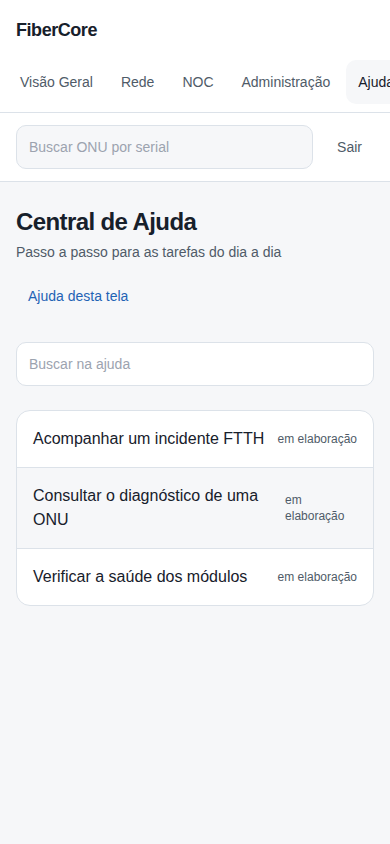
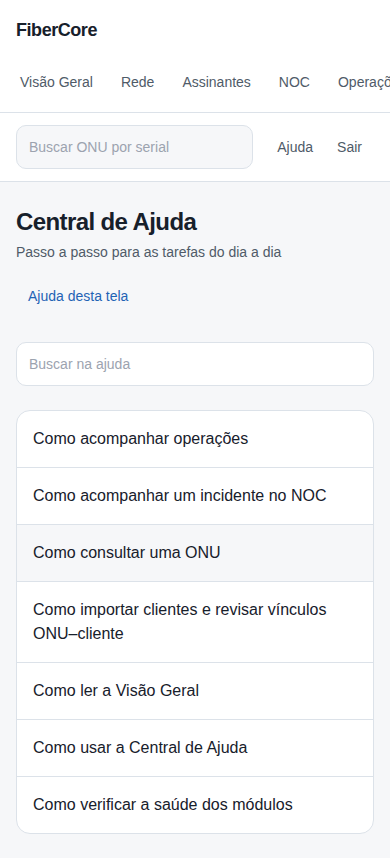
feat(web): telas Assinantes e Operações (W8) com E2E, capturas reais e How-to; menu com 6 áreas
Claude-Session: https://claude.ai/code/session_01G65B8a86N96ZoCrjd2Ad9b

diff --git a/apps/web/src/app/assinantes/page.tsx b/apps/web/src/app/assinantes/page.tsx
@@ -1,0 +1,69 @@
+import { AppShell } from "@/components/AppShell";
+import { EmptyState, ErrorState, PageHeader } from "@/components/ui";
+import { apiSafe } from "@/lib/api";
+import type { Association } from "@/lib/types";
+
+const n = (v: string | undefined) => (v && /^\d{1,5}$/.test(v) ? v : "0");
+
+export default async function Assinantes({ searchParams }: { searchParams: Promise<Record<string, string | undefined>> }) {
+  const q = await searchParams;
+  const r = await apiSafe<Association[]>("/v1/associations?status=suggested&limit=200");
+  if (r.status === 403) return <AppShell active="/assinantes" user="1"><ErrorState title="Sem permissão" hint="Seu papel não permite ver assinantes." /></AppShell>;
+  const list = r.data ?? [];
+  return (
+    <AppShell active="/assinantes" user="1">
+      <PageHeader title="Assinantes" subtitle="Importe clientes e revise os vínculos sugeridos entre ONU e cliente" helpSlug="assinantes/importar-e-revisar-vinculos" />
+      {q.ok === "import" && <p role="status" data-testid="import-report" className="panel mb-4 p-4 text-sm">Importação concluída: {n(q.a)} aceitas, {n(q.r)} rejeitadas, {n(q.s)} sugestões ({n(q.c)} com conflito). Os valores das linhas rejeitadas não são exibidos.</p>}
+      {(q.ok === "approve" || q.ok === "reject") && <p role="status" className="panel mb-4 p-4 text-sm">Vínculo {q.ok === "approve" ? "aprovado" : "rejeitado"}.</p>}
+      {q.erro && <p role="alert" className="panel mb-4 border-danger p-4 text-sm text-danger">Não foi possível concluir a operação ({q.erro === "409" ? "o vínculo já foi revisado, é ambíguo ou a ONU já tem vínculo aprovado" : q.erro === "403" ? "sem permissão" : "erro " + q.erro.slice(0, 8)}).</p>}
+      <div className="grid gap-6 lg:grid-cols-[320px_1fr]">
+        <section aria-label="Importar CSV">
+          <h2 className="mb-2 text-sm font-semibold uppercase tracking-wide text-muted">Importar CSV</h2>
+          <form action="/bff/erp/import" method="post" encType="multipart/form-data" className="panel grid gap-3 p-4" data-testid="import-form">
+            <label className="grid gap-1 text-sm">Origem
+              <input name="source" defaultValue="csv-manual" pattern="[a-z0-9][a-z0-9_.-]{1,39}" required className="min-h-touch rounded-btn border border-line bg-bg px-3" />
+            </label>
+            <label className="grid gap-1 text-sm">Arquivo (UTF-8, até 2 MiB)
+              <input name="file" type="file" accept=".csv,text/csv" required className="min-h-touch rounded-btn border border-line bg-bg p-2 text-sm" />
+            </label>
+            <p className="text-xs text-muted">Colunas: erp_customer_id, display_name; opcionais: document, contract_status, onu_serial.</p>
+            <button type="submit" className="min-h-touch rounded-btn bg-accent px-4 font-medium text-[color:var(--on-accent)]">Importar</button>
+          </form>
+        </section>
+        <section aria-label="Vínculos sugeridos" className="min-w-0">
+          <h2 className="mb-2 text-sm font-semibold uppercase tracking-wide text-muted">Vínculos sugeridos</h2>
+          {r.data === null ? <ErrorState title="Falha ao carregar vínculos" /> : list.length === 0 ? <EmptyState title="Nenhum vínculo para revisar" hint="Importe um CSV com a coluna onu_serial." /> : (
+            <ul className="panel divide-y divide-line" data-testid="association-list">
+              {list.map((a) => {
+                const blocked = a.evidence.ambiguous_serial === true;
+                return (
+                  <li key={a.id} className="grid gap-2 p-4">
+                    <div className="flex flex-wrap items-baseline justify-between gap-2">
+                      <span><span className="font-mono">{a.onu_serial}</span> → <strong>{a.customer_name}</strong></span>
+                      <span className="text-sm text-muted">Pontuação {a.score}/100</span>
+                    </div>
+                    <p className="text-sm text-muted">Evidência: serial idêntico{blocked ? " · serial presente em mais de uma OLT (ambíguo: resolva o inventário antes de aprovar)" : ""}{a.evidence.conflicts_with_approved ? " · conflita com um vínculo já aprovado" : ""}.</p>
+                    <div className="flex flex-wrap gap-2">
+                      <details>
+                        <summary className={`inline-flex min-h-touch cursor-pointer items-center rounded-btn border border-line px-3 text-sm ${blocked ? "pointer-events-none opacity-50" : ""}`} aria-disabled={blocked}>Aprovar</summary>
+                        <form action={`/bff/associations/${a.id}/approve`} method="post" className="mt-2 flex items-center gap-2 text-sm">
+                          <span>Confirmar vínculo?</span><button className="min-h-touch rounded-btn bg-accent px-3 text-[color:var(--on-accent)]">Confirmar aprovação</button>
+                        </form>
+                      </details>
+                      <details>
+                        <summary className="inline-flex min-h-touch cursor-pointer items-center rounded-btn border border-line px-3 text-sm">Rejeitar</summary>
+                        <form action={`/bff/associations/${a.id}/reject`} method="post" className="mt-2 flex items-center gap-2 text-sm">
+                          <span>Rejeitar sugestão?</span><button className="min-h-touch rounded-btn border border-line px-3">Confirmar rejeição</button>
+                        </form>
+                      </details>
+                    </div>
+                  </li>
+                );
+              })}
+            </ul>
+          )}
+        </section>
+      </div>
+    </AppShell>
+  );
+}

diff --git a/apps/web/e2e/app.spec.ts b/apps/web/e2e/app.spec.ts
@@ -2,7 +2,7 @@ import AxeBuilder from "@axe-core/playwright";
 import { expect, test } from "@playwright/test";
 import { login } from "./helpers";
 
-const routes = ["/", "/rede", "/noc", "/administracao/modulos", "/ajuda", "/ajuda/rede/consultar-onu"];
+const routes = ["/", "/rede", "/assinantes", "/noc", "/operacoes", "/administracao/modulos", "/ajuda", "/ajuda/rede/consultar-onu"];
 
 test("login inválido mostra erro e não cria sessão", async ({ page, context }) => {
   await page.goto("/login");
@@ -14,7 +14,7 @@ test("login inválido mostra erro e não cria sessão", async ({ page, context }
 });
 
 test("telas protegidas redirecionam para login sem sessão", async ({ page }) => {
-  for (const r of ["/", "/rede", "/noc", "/administracao/modulos", "/ajuda"]) {
+  for (const r of ["/", "/rede", "/assinantes", "/noc", "/operacoes", "/administracao/modulos", "/ajuda"]) {
     await page.goto(r);
     await expect(page).toHaveURL(/\/login/);
   }
@@ -77,4 +77,44 @@ test("navegação por teclado alcança o conteúdo e a busca", async ({ page }) 
   await login(page);
   await page.keyboard.press("Tab");
   await expect(page.getByRole("link", { name: "Ir para o conteúdo" })).toBeFocused();
+});
+
+test("assinantes: serial ambíguo não pode ser aprovado; aprovação exige confirmação e é refletida", async ({ page }) => {
+  await login(page);
+  await page.goto("/assinantes");
+  const items = page.getByTestId("association-list").locator("li");
+  const ambiguous = items.filter({ hasText: "DEMODUP001" }).first();
+  await expect(ambiguous).toContainText("ambíguo");
+  await expect(ambiguous.locator("summary", { hasText: "Aprovar" })).toHaveAttribute("aria-disabled", "true");
+  // aprovar um vínculo normal: abre a confirmação e só então efetiva
+  const before = await items.count();
+  const normal = items.filter({ hasText: "Cliente Demo Um" });
+  await expect(normal).toHaveCount(1);
+  await normal.locator("summary", { hasText: "Aprovar" }).click();
+  await normal.getByRole("button", { name: "Confirmar aprovação" }).click();
+  await expect(page.getByText("Vínculo aprovado.")).toBeVisible();
+  await expect(items.filter({ hasText: "Cliente Demo Um" })).toHaveCount(0);
+  await expect(items).toHaveCount(before - 1);
+});
+
+test("assinantes: importação mostra só contagens, nunca valores do CSV", async ({ page }) => {
+  await login(page);
+  await page.goto("/assinantes");
+  const csv = "erp_customer_id,display_name,document,contract_status,onu_serial\nE2E1,Pessoa Secreta,123,active,\nE2E2,Outra Pessoa,,active,\n";
+  await page.setInputFiles('input[name="file"]', { name: "clientes.csv", mimeType: "text/csv", buffer: Buffer.from(csv) });
+  await page.getByRole("button", { name: "Importar" }).click();
+  const report = page.getByTestId("import-report");
+  await expect(report).toContainText("1 aceitas, 1 rejeitadas");
+  expect(page.url()).not.toContain("Secreta");
+  await expect(page.locator("body")).not.toContainText("Pessoa Secreta");
+});
+
+test("operações: escrita aparece bloqueada com o motivo e nenhum botão de escrita habilitado", async ({ page }) => {
+  await login(page);
+  await page.goto("/operacoes");
+  await expect(page.getByTestId("write-blocked")).toContainText("Operação não homologada");
+  const blocked = page.getByRole("button", { name: /Bloqueada: operação não homologada/ });
+  await expect(blocked).toHaveCount(2);
+  for (const b of await blocked.all()) await expect(b).toBeDisabled();
+  await expect(page.getByTestId("jobs-table")).toContainText("Reiniciar CPE");
 });

diff --git a/apps/web/src/app/operacoes/page.tsx b/apps/web/src/app/operacoes/page.tsx
@@ -1,0 +1,45 @@
+import { AppShell } from "@/components/AppShell";
+import { EmptyState, ErrorState, PageHeader } from "@/components/ui";
+import { apiSafe } from "@/lib/api";
+import type { Job } from "@/lib/types";
+
+const STATES = ["PREVIEWED", "PENDING_APPROVAL", "APPROVED", "DISPATCHED", "ACCEPTED", "VERIFYING", "SUCCEEDED"];
+const label: Record<string, string> = {
+  PREVIEWED: "Pré-visualizado", PENDING_APPROVAL: "Aguardando aprovação", APPROVED: "Aprovado", DISPATCHED: "Despachado (não é sucesso)",
+  ACCEPTED: "Aceito (não é sucesso)", DEVICE_PENDING: "Pendente no equipamento", VERIFYING: "Verificando", SUCCEEDED: "Sucesso verificado",
+  FAILED: "Falhou", EXPIRED: "Expirado", UNKNOWN: "Resultado desconhecido", CANCELLED: "Cancelado",
+};
+const opName: Record<string, string> = { collect: "Coletar OLT", refresh: "Atualizar CPE", reboot_cpe: "Reiniciar CPE", set_wifi_ssid: "Alterar Wi-Fi", provision_onu: "Provisionar ONU" };
+
+export default async function Operacoes() {
+  const r = await apiSafe<Job[]>("/v1/jobs?limit=50");
+  if (r.status === 403) return <AppShell active="/operacoes" user="1"><ErrorState title="Sem permissão" hint="Seu papel não permite ver operações." /></AppShell>;
+  const list = r.data ?? [];
+  return (
+    <AppShell active="/operacoes" user="1">
+      <PageHeader title="Operações" subtitle="Solicitações e aprovações; escrita em rede está bloqueada nesta fase" helpSlug="operacoes/acompanhar-operacoes" />
+      <p className="panel mb-4 p-4 text-sm" data-testid="write-blocked">Operações que alteram equipamentos (reiniciar, Wi-Fi, provisionar) ficam <strong>bloqueadas</strong>: “Operação não homologada”. Apenas leituras (coletar/atualizar) são executadas.</p>
+      {r.data === null ? <ErrorState title="Falha ao carregar operações" /> : list.length === 0 ? <EmptyState title="Nenhuma operação" /> : (
+        <div className="panel overflow-x-auto" data-testid="jobs-table">
+          <table className="w-full min-w-[640px] text-sm">
+            <thead className="text-left text-muted"><tr><th className="p-3 font-medium">Operação</th><th className="p-3 font-medium">Risco</th><th className="p-3 font-medium">Estado</th><th className="p-3 font-medium">Aprovações</th><th className="p-3 font-medium">Ação</th></tr></thead>
+            <tbody className="divide-y divide-line">
+              {list.map((j) => (
+                <tr key={j.id}>
+                  <td className="p-3 font-medium">{opName[j.operation] ?? j.operation}</td>
+                  <td className="p-3">{j.risk}</td>
+                  <td className="p-3">
+                    {label[j.status] ?? j.status}
+                    {STATES.includes(j.status) && <div className="text-xs text-muted" aria-label="Linha do tempo">{STATES.map((s) => (s === j.status ? `[${label[s]?.split(" (")[0]}]` : "·")).join(" ")}</div>}
+                  </td>
+                  <td className="p-3">{j.required_approvals === 0 ? "não exige" : `${j.required_approvals} distinta(s)`}</td>
+                  <td className="p-3">{j.blocked_reason ? <button disabled aria-disabled className="min-h-touch rounded-btn border border-line px-3 text-muted" title="Operação não homologada">Bloqueada: operação não homologada</button> : <span className="text-muted">—</span>}</td>
+                </tr>
+              ))}
+            </tbody>
+          </table>
+        </div>
+      )}
+    </AppShell>
+  );
+}

diff --git a/apps/web/src/components/AppShell.tsx b/apps/web/src/components/AppShell.tsx
@@ -5,10 +5,11 @@ import type { ReactNode } from "react";
 export const NAV = [
   { href: "/", label: "Visão Geral" },
   { href: "/rede", label: "Rede" },
+  { href: "/assinantes", label: "Assinantes" },
   { href: "/noc", label: "NOC" },
+  { href: "/operacoes", label: "Operações" },
   { href: "/administracao/modulos", label: "Administração" },
-  { href: "/ajuda", label: "Ajuda" },
-] as const;
+] as const; // 6 áreas (limite do design system); a Ajuda fica na barra superior
 
 export function AppShell({ active, children, user }: { active: string; children: ReactNode; user?: string }) {
   return (
@@ -34,11 +35,14 @@ export function AppShell({ active, children, user }: { active: string; children:
             <input id="q" name="serial" placeholder="Buscar ONU por serial" autoComplete="off"
               className="min-h-touch w-full rounded-btn border border-line bg-bg px-3 text-sm" />
           </form>
-          {user && (
-            <form action="/bff/logout" method="post">
-              <button className="min-h-touch rounded-btn px-3 text-sm text-muted hover:bg-bg" type="submit">Sair</button>
-            </form>
-          )}
+          <div className="flex items-center">
+            <Link href="/ajuda" aria-current={active === "/ajuda" ? "page" : undefined} className="flex min-h-touch items-center rounded-btn px-3 text-sm text-muted hover:bg-bg">Ajuda</Link>
+            {user && (
+              <form action="/bff/logout" method="post">
+                <button className="min-h-touch rounded-btn px-3 text-sm text-muted hover:bg-bg" type="submit">Sair</button>
+              </form>
+            )}
+          </div>
         </header>
         <main id="main" className="mx-auto max-w-page px-4 py-6 md:px-8">{children}</main>
       </div>

diff --git a/apps/web/src/app/bff/erp/import/route.ts b/apps/web/src/app/bff/erp/import/route.ts
@@ -1,0 +1,20 @@
+import { NextResponse } from "next/server";
+import { apiPost } from "@/lib/api";
+import { back } from "@/lib/bff";
+import { sameOrigin } from "@/lib/csrf";
+
+const MAX = 2 * 1024 * 1024;
+
+export async function POST(req: Request) {
+  if (!sameOrigin(req)) return NextResponse.json({ detail: "forbidden" }, { status: 403 });
+  const form = await req.formData();
+  const file = form.get("file");
+  const source = String(form.get("source") ?? "csv-manual");
+  if (!(file instanceof File) || file.size === 0 || file.size > MAX) return back(req, "/assinantes?erro=arquivo");
+  const buf = await file.arrayBuffer();
+  const r = await apiPost(`/v1/erp/import-csv?source=${encodeURIComponent(source)}`, buf, { "content-type": "text/csv", "content-length": String(buf.byteLength) });
+  if (r.status !== 200) return back(req, `/assinantes?erro=${r.status}`);
+  const j = r.json as { accepted: number; rejected_count: number; suggestions: number; conflicts: number };
+  // Só contagens trafegam na URL: nunca valores do CSV (podem ser dados pessoais).
+  return back(req, `/assinantes?ok=import&a=${j.accepted}&r=${j.rejected_count}&s=${j.suggestions}&c=${j.conflicts}`);
+}

diff --git a/apps/web/src/lib/api.ts b/apps/web/src/lib/api.ts
@@ -35,3 +35,16 @@ export async function apiLogin(email: string, password: string, clientIp?: strin
   if (!res.ok) return { token: null, status: res.status };
   return { token: ((await res.json()) as { access_token: string }).access_token, status: 200 };
 }
+
+/** POST server-side com o token da sessão. Devolve status e corpo JSON (se houver). */
+export async function apiPost(path: string, body?: BodyInit, headers: Record<string, string> = {}): Promise<{ status: number; json: unknown }> {
+  const { token, workspace } = await getSession();
+  if (!token) return { status: 401, json: null };
+  const res = await fetch(`${API}${path}`, {
+    method: "POST", body, cache: "no-store",
+    headers: { ...headers, Authorization: `Bearer ${token}`, ...(workspace ? { "X-Workspace-ID": workspace } : {}) },
+  });
+  let json: unknown = null;
+  try { json = await res.json(); } catch { /* sem corpo */ }
+  return { status: res.status, json };
+}

diff --git a/apps/web/src/lib/types.ts b/apps/web/src/lib/types.ts
@@ -5,3 +5,5 @@ export type IncidentList = { incidents: Incident[]; alerts: { kind: string; edge
 export type Edge = { id: string; name: string; status: string; last_heartbeat_at: string | null; version: string | null };
 export type Mod = { id: string; version: string; status: string; reason: string | null; capabilities: string[]; checked_at: string };
 export type Workspace = { tenant_id: string; name: string; role: string };
+export type Association = { id: string; status: string; score: number; evidence: { ambiguous_serial?: boolean; conflicts_with_approved?: string | null; match?: string }; onu_serial: string; customer_name: string };
+export type Job = { id: string; operation: string; target_type: string; risk: string; status: string; required_approvals: number; blocked_reason: string | null; expires_at: string | null; created_at: string };

diff --git a/apps/web/src/app/bff/associations/[id]/[action]/route.ts b/apps/web/src/app/bff/associations/[id]/[action]/route.ts
@@ -1,0 +1,14 @@
+import { NextResponse } from "next/server";
+import { apiPost } from "@/lib/api";
+import { back } from "@/lib/bff";
+import { sameOrigin } from "@/lib/csrf";
+
+const UUID = /^[0-9a-f]{8}-[0-9a-f]{4}-[0-9a-f]{4}-[0-9a-f]{4}-[0-9a-f]{12}$/i;
+
+export async function POST(req: Request, { params }: { params: Promise<{ id: string; action: string }> }) {
+  if (!sameOrigin(req)) return NextResponse.json({ detail: "forbidden" }, { status: 403 });
+  const { id, action } = await params;
+  if (!UUID.test(id) || !["approve", "reject"].includes(action)) return NextResponse.json({ detail: "not found" }, { status: 404 });
+  const r = await apiPost(`/v1/associations/${id}/${action}`);
+  return back(req, `/assinantes?${r.status === 200 ? `ok=${action}` : `erro=${r.status}`}`);
+}

diff --git a/apps/web/e2e/help-screenshots.spec.ts b/apps/web/e2e/help-screenshots.spec.ts
@@ -11,6 +11,8 @@ const screens = [
   { slug: "visao-geral/visao-geral", route: "/", ready: "kpis" },
   { slug: "rede/consultar-onu", route: "/rede", ready: "onu-inventory-ready" },
   { slug: "noc/acompanhar-incidente", route: "/noc", ready: "incident-queue" },
+  { slug: "assinantes/importar-e-revisar-vinculos", route: "/assinantes", ready: "association-list" },
+  { slug: "operacoes/acompanhar-operacoes", route: "/operacoes", ready: "jobs-table" },
   { slug: "administracao/saude-modulos", route: "/administracao/modulos", ready: "modules-table" },
   { slug: "ajuda/central-de-ajuda", route: "/ajuda", ready: "help-list" },
 ];

diff --git a/apps/web/playwright.config.ts b/apps/web/playwright.config.ts
@@ -13,5 +13,9 @@ export default defineConfig({
     colorScheme: "light",
     trace: "retain-on-failure",
   },
-  projects: [{ name: "chromium", use: { browserName: "chromium" } }],
+  // Capturas primeiro (estado do seed intacto), depois os testes funcionais que mutam dados.
+  projects: [
+    { name: "capturas", testMatch: /help-screenshots\.spec\.ts/, use: { browserName: "chromium" } },
+    { name: "funcional", testMatch: /app\.spec\.ts/, dependencies: ["capturas"], use: { browserName: "chromium" } },
+  ],
 });

diff --git a/apps/web/src/lib/bff.ts b/apps/web/src/lib/bff.ts
@@ -1,0 +1,6 @@
+import { NextResponse } from "next/server";
+
+export function back(req: Request, to: string) {
+  const base = req.headers.get("x-forwarded-host") ? `${req.headers.get("x-forwarded-proto") ?? "https"}://${req.headers.get("x-forwarded-host")}` : new URL(req.url).origin;
+  return NextResponse.redirect(new URL(to, base), 303);
+}

diff --git a/scripts/seed_demo.py b/scripts/seed_demo.py
@@ -48,9 +48,10 @@ def main() -> None:
 
     olt_a = onus("DEMOA", 12, "online", "0/1/0", -21.5) + onus("DEMOB", 2, "offline", "0/1/0", None)
     olt_a += onus("DEMOC", 10, "los", "0/1/1", None)  # queda em massa na PON 0/1/1
+    olt_a += [{"serial": "DEMODUP001", "pon_path": "0/1/0", "status": "online", "rx_dbm": -20.5}]  # mesmo serial em 2 OLTs (ambíguo)
     snaps = [
         ("OLT-DEMO-01", "huawei", "MA5800-X7", "R018", olt_a),
-        ("OLT-DEMO-02", "zte", "C300", "V2.1.0P3", onus("DEMOD", 8, "online", "1/2/1", -19.25)),
+        ("OLT-DEMO-02", "zte", "C300", "V2.1.0P3", onus("DEMOD", 8, "online", "1/2/1", -19.25) + [{"serial": "DEMODUP001", "pon_path": "1/2/1", "status": "online", "rx_dbm": -20.0}]),
     ]
     for name, vendor, model, fw, items in snaps:
         pons = sorted({o["pon_path"] for o in items})
@@ -63,6 +64,22 @@ def main() -> None:
         {"canonical_serial": f"DEMOCPE{i:03d}", "vendor": "Huawei", "model": "HG8245H",
          "binding": {"protocol": "tr069", "external_id": f"DEMO-OUI-HG8245H-DEMOCPE{i:03d}", "connector_id": "genieacs-demo"}} for i in range(5)]})
     assert r.status_code == 202, r.text
+    # --- como administrador do provedor: importa clientes fictícios e cria operações ---
+    u = httpx.Client(base_url=API, timeout=15)
+    ut = u.post("/v1/auth/token", json={"email": EMAIL, "password": PW}).json()["access_token"]
+    uh = {"Authorization": f"Bearer {ut}"}
+    csv_body = ("erp_customer_id,display_name,document,contract_status,onu_serial\n"
+                "D001,Cliente Demo Um,,active,DEMOA0000\nD002,Cliente Demo Dois,,active,DEMOA0001\n"
+                "D003,Cliente Demo Três,,suspended,DEMOD0000\nD004,Cliente Demo Ambíguo,,active,DEMODUP001\n")
+    r = u.post("/v1/erp/import-csv?source=csv-demo", headers={**uh, "content-type": "text/csv"}, content=csv_body.encode())
+    assert r.status_code == 200, r.text
+    olt_id = next(o["id"] for o in u.get("/v1/olts", headers=uh).json() if o["name"] == "OLT-DEMO-01")
+    cpe_id = u.get("/v1/cpes", headers=uh).json()[0]["id"]
+    for i, (op, tgt) in enumerate([("collect", olt_id), ("reboot_cpe", cpe_id), ("set_wifi_ssid", cpe_id)]):
+        j = u.post("/v1/jobs/preview", headers={**uh, "Idempotency-Key": f"demo-seed-job-{i:04d}"}, json={"operation": op, "target_id": tgt})
+        assert j.status_code == 201, j.text
+        if op == "collect":
+            assert u.post(f"/v1/jobs/{j.json()['id']}/submit", headers=uh).status_code == 200
     print(f"tenant={tenant}\nemail={EMAIL}\npassword={PW}")
 
 
